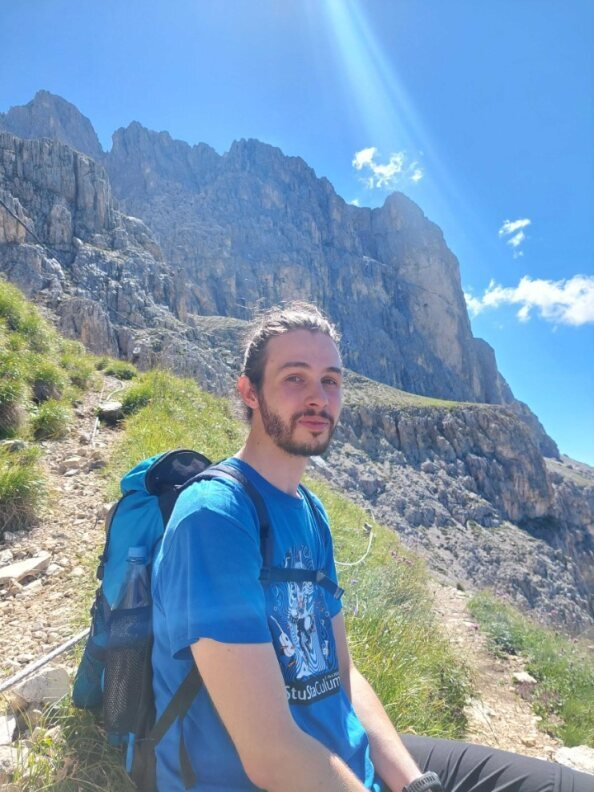
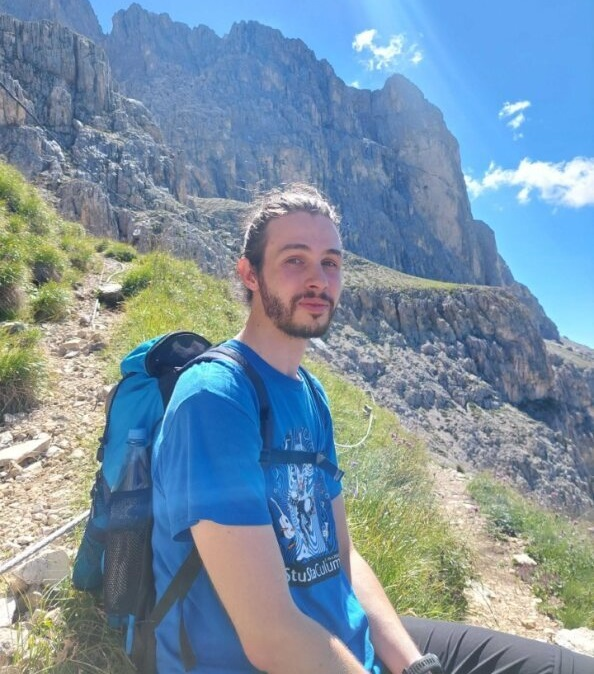
Fixed image file extension error
- Fixed misspelled image file extension
- Cropped image of matthias

diff --git a/app/routes/team.tsx b/app/routes/team.tsx
@@ -1,5 +1,5 @@
-import dan from '../../public/images/dan_crop.png'
-import matthias from '../../public/images/matthias_crop.png'
+import dan from '../../public/images/dan.png'
+import matthias from '../../public/images/matthias_crop.jpeg'
 import martin from '../../public/images/martin_crop.jpg'
 import alissa from '../../public/images/alissa.png'
 import bence from '../../public/images/bence.png'
@@ -21,7 +21,7 @@ export default function Team() {
         { img: pia, name: "Pia Schmitzer", responsibility: "Design & PR"},
         { img: alissa, name: "Alissa Schulteß", responsibility: "Design, PR"},
         { img: alphar, name: "Alphar Abdugeni", responsibility: "Design, PR"},
-        { img: samuel, name: "Samuel Juhasz", responsibility: "HR"},
+        { img: samuel, name: "Samuel Juhasz", responsibility: "HR"}, 
         { img: bence, name: "Bence Tóth", responsibility: "Finance"},
         { img: nicolas, name: "Nicolas Osipenco", responsibility: "Overnight Stay"},
     ];
